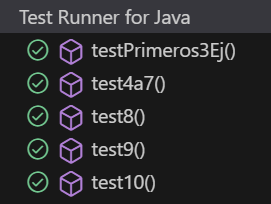
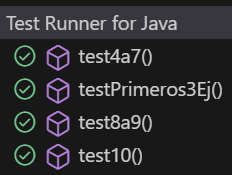
arreglo refactorizaciones 8 a 12

diff --git a/README.md b/README.md
@@ -432,7 +432,24 @@ public int parse(String expression) {
 ![Pasa](Capturas/test9_PASA.png "Pasa")
 
 **EJ9. Refactorización**
-> No es necesaria.
+> Vamos a refactorizar para unificar los tests 8 y 9. Pero esta vez va a ser distinto y vamos a añadir un método auxiliar para evitar repetir líneas de código.
+
+```java
+public String aTAux(String expression){
+    CalculatorParser parser = new CalculatorParser();
+    IllegalArgumentException result = assertThrows(IllegalArgumentException.class, () -> parser.parse(expression));
+    return result.getMessage();
+}
+@Test
+public void test8a9(){
+    assertEquals("Invalid expression", aTAux("A"));
+    assertEquals("Invalid expression", aTAux("B"));
+}
+```
+**EJ9. Captura de que TODOS los tests PASAN tras la refactorización**
+
+![Pasa](Capturas/test8a9_PASA.png "Pasa")
+
 
 
 
@@ -478,7 +495,19 @@ public int parse(String expression) {
 ![Pasa](Capturas/test10_PASA.png "Pasa")
 
 **EJ10. Refactorización**
-> No es necesaria.
+> Vamos a volver a refactorizar para unificar también el test 10.
+
+```java
+@Test
+public void test8a10(){
+    assertEquals("Invalid expression", aTAux("A"));
+    assertEquals("Invalid expression", aTAux("B"));
+    assertEquals("Invalid expression", aTAux("k"));
+}
+```
+**EJ10. Captura de que TODOS los tests PASAN tras la refactorización**
+
+![Pasa](Capturas/test8a10_PASA.png "Pasa")
 
 
 
@@ -525,7 +554,20 @@ public int parse(String expression) {
 ![Pasa](Capturas/test11_PASA.png "Pasa")
 
 **EJ11. Refactorización**
-> No es necesaria.
+> Vamos a volver a refactorizar para unificar también el test 10.
+
+```java
+@Test
+    public void test8a11(){
+        assertEquals("Invalid expression", aTAux("A"));
+        assertEquals("Invalid expression", aTAux("B"));
+        assertEquals("Invalid expression", aTAux("k"));
+        assertEquals("Invalid expression", aTAux("HoLa"));
+    }
+```
+**EJ11. Captura de que TODOS los tests PASAN tras la refactorización**
+
+![Pasa](Capturas/test8a11_PASA.png "Pasa")
 
 
 
@@ -572,31 +614,9 @@ public int parse(String expression) {
 ![Pasa](Capturas/test12_PASA.png "Pasa")
 
 **EJ12. Refactorización**
-> Como en los casos anteriores, vamos a refactorizar para unificar todos los tests, pero esta vez, vamos a hacer dos refactorizaciones, una que los unifica y otra que usa un método auxiliar para simplificar el código. 
+> Como en los casos anteriores, vamos a refactorizar para unificar todos los tests. 
 
 ```java
-@Test
-public void test8a12(){
-    CalculatorParser parser = new CalculatorParser();
-    IllegalArgumentException exception1 = assertThrows(IllegalArgumentException.class, () -> parser.parse("A"));
-    assertEquals("Invalid expression", exception1.getMessage());
-    IllegalArgumentException exception2 = assertThrows(IllegalArgumentException.class, () -> parser.parse("B"));
-    assertEquals("Invalid expression", exception2.getMessage());
-    IllegalArgumentException exception3 = assertThrows(IllegalArgumentException.class, () -> parser.parse("k"));
-    assertEquals("Invalid expression", exception3.getMessage());
-    IllegalArgumentException exception4 = assertThrows(IllegalArgumentException.class, () -> parser.parse("HoLa"));
-    assertEquals("Invalid expression", exception4.getMessage());
-    IllegalArgumentException exception5 = assertThrows(IllegalArgumentException.class, () -> parser.parse("1 + A"));
-    assertEquals("Invalid expression", exception5.getMessage());
-}
-```
-Ahora que ya hemos unificado todos los tests, vamos a usar un método auxiliar para simplificar el test.
-```java
-public String aTAux(String expression){
-    CalculatorParser parser = new CalculatorParser();
-    IllegalArgumentException result = assertThrows(IllegalArgumentException.class, () -> parser.parse(expression));
-    return result.getMessage();
-}
 @Test
 public void test8a12(){
     assertEquals("Invalid expression", aTAux("A"));
